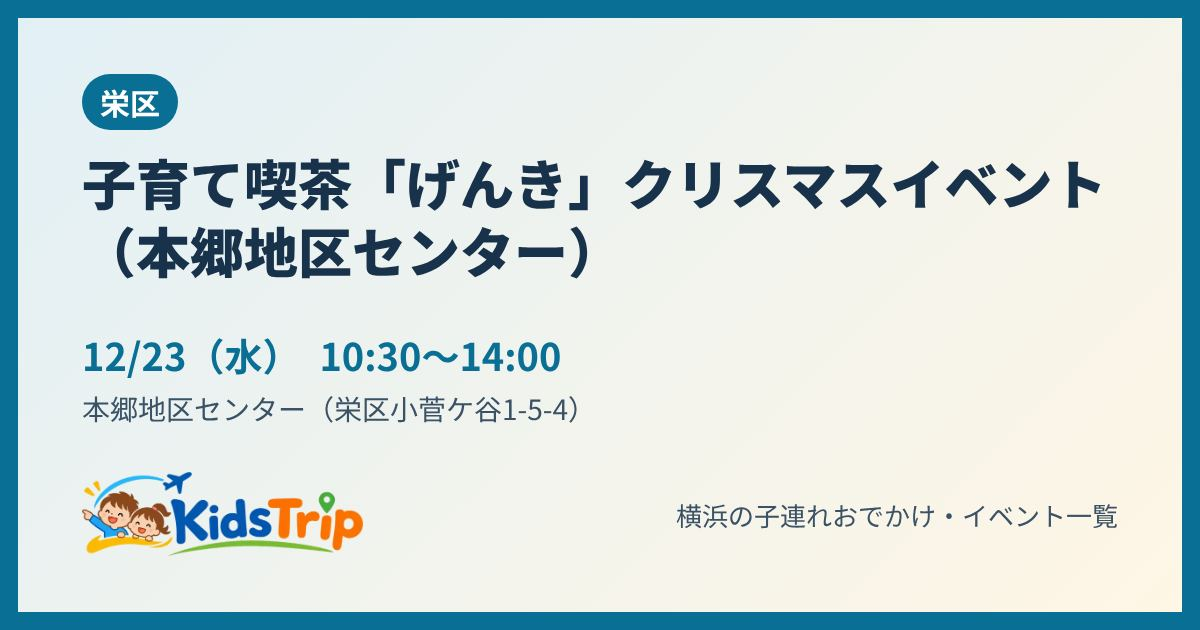
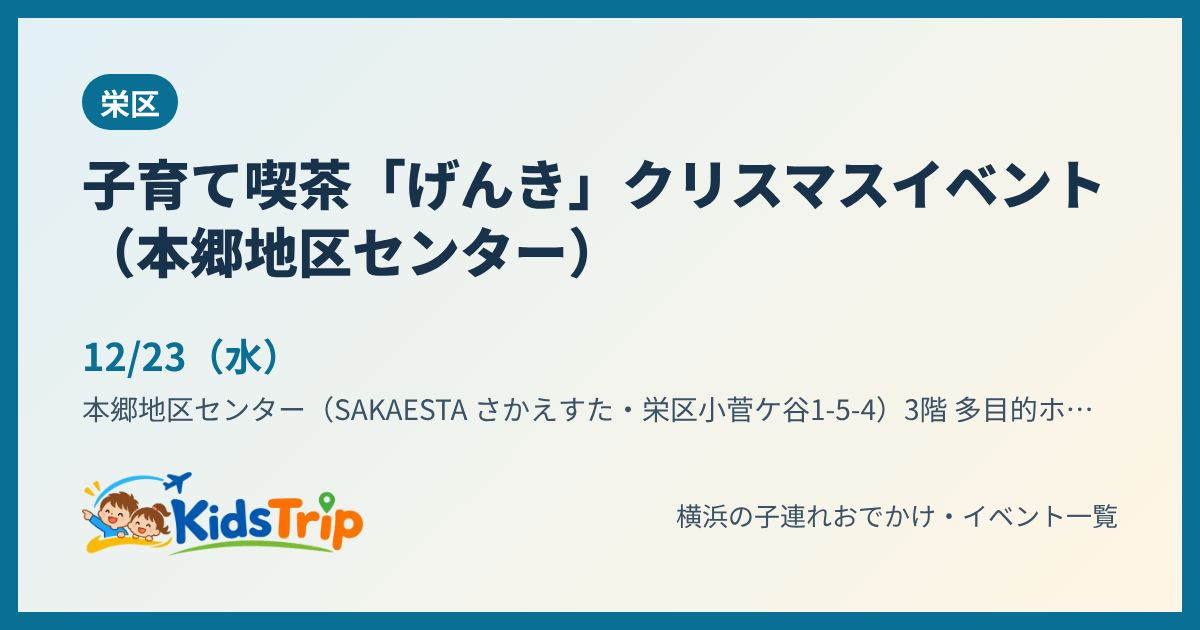
栄区：上郷・本郷の親子向け講座3件を詳細ページで確認（料金・対象・申込）
Claude-Session: https://claude.ai/code/session_014AtJ2fHfJAqHs7WQwJHXLv

Changed region(s): [[0.2775, 0.6333, 0.8942, 0.6937], [0.2467, 0.5429, 0.4933, 0.6032]]

diff --git a/index.html b/index.html
@@ -2267,9 +2267,9 @@ EVENTS.push({"t": "上郷地区センターのプレイルーム（栄区）", "
 EVENTS.push({"t": "親子であそぼう！（豊田地区センター）", "days": ["11/20"], "time": "10:00〜11:00", "ward": "栄区", "venue": "豊田地区センター（栄区飯島町1368-1）", "price": "paid", "priceText": "1組100円", "place": "屋内", "rain": "ok", "rainText": "屋内なので雨でもOK", "resv": true, "resvText": "要予約（先着14組。残りわずかでWEB受付は終了、電話 045-895-1390 で問い合わせ）", "age": [1, 3], "ageText": "1歳以上の未就園児と保護者", "kind": "limited", "start": 600, "sum": "栄区の子育て支援者と一緒に、広い室内で遊ぶ会。11月は「米粉ねんどあそび」。", "tip": "飲み物を持っていく。汚れてもいい服で。", "url": "https://www.sakaekunosisetu.com/toyoda/smartphone/eventdetail.cgi?1706511249", "src": "豊田地区センター公式（講座の詳細ページ）", "asof": "2026年11月16日"});
 EVENTS.push({"t": "こどもお菓子教室（豊田地区センター）", "days": ["12/19"], "time": "10:00〜12:30", "ward": "栄区", "venue": "豊田地区センター（栄区飯島町1368-1）", "price": "paid", "priceText": "1,200円（材料費込み）", "place": "屋内", "rain": "ok", "rainText": "屋内なので雨でもOK", "resv": true, "resvText": "要予約（先着12人。11/19 9時から電話 045-895-1390・来館・WEBで受付）", "age": [6, 12], "ageText": "小学生", "kind": "limited", "start": 600, "sum": "クリスマスのお菓子（チョコレートのケーキ）を作る教室。持ち帰りの箱は用意してもらえる。", "tip": "持ち物：うわばき・エプロン・三角巾・ふきん・台ふきん・手拭き。12/12以降のキャンセルは参加費がかかる（12/11までに連絡）。", "url": "https://www.sakaekunosisetu.com/toyoda/smartphone/eventdetail.cgi?1717639084", "src": "豊田地区センター公式（講座の詳細ページ）", "asof": "2026年11月16日"});
 EVENTS.push({"t": "こども書道教室（豊田地区センター）", "days": ["12/26"], "time": "①13:00〜14:00（小3・4年）②14:00〜15:00（小5〜中学生）", "ward": "栄区", "venue": "豊田地区センター（栄区飯島町1368-1）", "price": "paid", "priceText": "300円", "place": "屋内", "rain": "ok", "rainText": "屋内なので雨でもOK", "resv": true, "resvText": "要予約（定員10人。11/19から電話 045-895-1390・来館・WEBで受付）", "age": [8, 15], "ageText": "小学3年生〜中学生（学年で時間が分かれる）", "kind": "limited", "start": 780, "sum": "正しい筆の持ち方や姿勢を教わり、広い部屋で書く冬休みのお習字。学校の宿題や書初めの練習にも。", "tip": "持ち物：うわばき・習字道具一式・（あれば）お手本・新聞紙・練習用と本番用の紙（多めに）・ぞうきん・書き損じを持ち帰る袋。床に座って書くので汚れてもいい服で。兄弟で参加するときは相談を。", "url": "https://www.sakaekunosisetu.com/toyoda/smartphone/eventdetail.cgi?1698907927", "src": "豊田地区センター公式（講座の詳細ページ）", "asof": "2026年11月16日"});
-EVENTS.push({"t": "年越しそばを親子で打とう（上郷地区センター）", "days": ["12/13"], "time": "10:00〜13:30", "ward": "栄区", "venue": "上郷地区センター（栄区上郷町1173-5）", "price": "unknown", "priceText": "公式ページで未確認（くわしくは電話で）", "place": "屋内", "rain": "ok", "rainText": "屋内なので雨でもOK", "resv": false, "resvText": "公式ページで未確認（くわしくは電話で） 045-892-8000", "age": [6, 12], "ageText": "親子（対象年齢は未確認）", "kind": "limited", "start": 600, "sum": "親子で年越しそばを打つ講座。", "tip": "対象・料金・申し込みは一覧に載っておらず未確認。行く前に電話（045-892-8000）で確かめて。", "url": "https://www.sakaekunosisetu.com/kamigo/event.cgi", "src": "上郷地区センター公式（講座・イベント一覧）", "asof": "2026年11月16日"});
-EVENTS.push({"t": "キグちゃんの「親子であそぼ！」（本郷地区センター）", "days": ["12/14"], "time": "10:30〜11:30", "ward": "栄区", "venue": "本郷地区センター（栄区小菅ケ谷1-5-4）", "price": "unknown", "priceText": "公式ページで未確認（くわしくは電話で）", "place": "屋内", "rain": "ok", "rainText": "屋内なので雨でもOK", "resv": false, "resvText": "公式ページで未確認（くわしくは電話で） 045-892-5310", "age": [2, 3], "ageText": "2歳以上の未就園児と保護者", "kind": "limited", "start": 630, "sum": "遊びから子どもの育ちを学ぶ、親子の遊びの会。", "tip": "対象・料金・申し込みは一覧に載っておらず未確認。行く前に電話（045-892-5310）で確かめて。", "url": "https://www.sakaekunosisetu.com/hongo/smartphone/event.cgi", "src": "本郷地区センター公式（講座・イベント一覧）", "asof": "2026年11月16日"});
-EVENTS.push({"t": "子育て喫茶「げんき」クリスマスイベント（本郷地区センター）", "days": ["12/23"], "time": "10:30〜14:00", "ward": "栄区", "venue": "本郷地区センター（栄区小菅ケ谷1-5-4）", "price": "unknown", "priceText": "公式ページで未確認（くわしくは電話で）", "place": "屋内", "rain": "ok", "rainText": "屋内なので雨でもOK", "resv": false, "resvText": "公式ページで未確認（くわしくは電話で） 045-892-5310", "age": [0, 6], "ageText": "子育て中の親子（対象は未確認）", "kind": "limited", "start": 630, "sum": "子育て喫茶「げんき」のクリスマスイベント。", "tip": "対象・料金・申し込みは一覧に載っておらず未確認。行く前に電話（045-892-5310）で確かめて。", "url": "https://www.sakaekunosisetu.com/hongo/smartphone/event.cgi", "src": "本郷地区センター公式（講座・イベント一覧）", "asof": "2026年11月16日"});
+EVENTS.push({"t": "年越しそばを親子で打とう（上郷地区センター）", "days": ["12/13"], "time": "10:00〜13:30", "ward": "栄区", "venue": "上郷地区センター（栄区上郷町1173-5）", "price": "paid", "priceText": "1組1,500円", "place": "屋内", "rain": "ok", "rainText": "屋内なので雨でもOK", "resv": true, "resvText": "要予約（先着7組。11/17 10時から来館・電話 045-892-8000）", "age": [5, 12], "ageText": "5歳以上の子と保護者", "kind": "limited", "start": 600, "sum": "親子で1つの鉢を使うそば打ち体験。打ちたてのそばをその場で食べる。", "tip": "持ち物：子ども用の上履き・マスク・エプロン・三角巾・台ふきん2枚・ふきん2枚・飲み物・筆記用具。12/7以降のキャンセルは参加費がかかる（12/6までに連絡）。", "url": "https://www.sakaekunosisetu.com/kamigo/event.cgi", "src": "上郷地区センター公式（講座の詳細ページ・チラシ）", "asof": "2026年11月16日"});
+EVENTS.push({"t": "キグちゃんの「親子であそぼ！」（本郷地区センター）", "days": ["12/14"], "time": "10:30〜11:30", "ward": "栄区", "venue": "本郷地区センター（SAKAESTA さかえすた・栄区小菅ケ谷1-5-4）3階 多目的ホール", "price": "free", "priceText": "無料", "place": "屋内", "rain": "ok", "rainText": "屋内なので雨でもOK", "resv": true, "resvText": "要予約（先着15組。11/13 10時から電話 045-392-5157 か受付で）", "age": [2, 3], "ageText": "2歳〜未就園児と保護者", "kind": "limited", "start": 630, "sum": "地域の子育て支援者「キグちゃん」の遊びの講座。パラバルーンなどで体を大きく動かして遊び、最後に絵本の読み聞かせ。月齢に合った遊び方や絵本の選び方も教わる。", "tip": "持ち物：飲み物・汗ふきタオル（必要ならバスタオル）。体調の悪い日は参加できない。キャンセルは必ず連絡。JR本郷台駅から歩いて約3分。", "url": "https://www.sakaekunosisetu.com/hongo/smartphone/event.cgi", "src": "本郷地区センター（SAKAESTA）公式（講座の詳細ページ・チラシ）", "asof": "2026年11月16日"});
+EVENTS.push({"t": "子育て喫茶「げんき」クリスマスイベント（本郷地区センター）", "days": ["12/23"], "time": "10:30〜14:00（イベントは10:45〜11:30ごろ）", "ward": "栄区", "venue": "本郷地区センター（SAKAESTA さかえすた・栄区小菅ケ谷1-5-4）3階 多目的ホール", "price": "paid", "priceText": "1家族200円（保険・お茶代）＋カレー代（大人150円・子ども50円）", "place": "屋内", "rain": "ok", "rainText": "屋内なので雨でもOK", "resv": true, "resvText": "要予約（0〜3歳の親子25組。11/12 10時から電話 045-392-5157 か受付で。カレーだけの申し込みは不可）", "age": [0, 3], "ageText": "0〜3歳と保護者", "kind": "limited", "start": 630, "sum": "子育て喫茶「げんき」のクリスマス。親子で楽しむJAZZコンサートがあり、サンタさんも来る。カレーも食べられる。", "tip": "体調がすぐれない・熱がある日は参加できない。キャンセルは前もって連絡。JR本郷台駅から歩いて約3分。", "url": "https://www.sakaekunosisetu.com/hongo/smartphone/event.cgi", "src": "本郷地区センター（SAKAESTA）公式（講座の詳細ページ・チラシ）", "asof": "2026年11月16日"});
 // ---- 区ごとの無料の室内遊び場（地域子育て支援拠点・地区センターのプレイルーム）。開館日・時間は施設ごとに違うので日付には結びつけない（only:[]） ----
 EVENTS.push({"t": "ラフール（青葉区の地域子育て支援拠点）", "days": [], "time": "開館日・時間は公式ページで確認", "ward": "青葉区", "venue": "ラフール（青葉台1-4 青葉消防署青葉台消防出張所複合施設6階）", "price": "free", "priceText": "無料", "place": "屋内", "rain": "ok", "rainText": "屋内なので雨でもOK", "resv": true, "resvText": "利用登録が必要（無料）", "age": [0, 6], "ageText": "未就学児と保護者", "kind": "ongoing", "start": 600, "freeplay": true, "only": [], "period": "ふだん開いている（休館日は要確認）", "sum": "未就学児と保護者が無料で遊べる、青葉区の子育て支援の拠点。遊びのスペースのほか、子育ての相談や地域の子育て情報ももらえる。東急田園都市線「青葉台」徒歩3分。", "tip": "はじめて使うときは利用登録が必要。開館日や時間、混み具合は公式ページで確かめてから。", "url": "https://lafull.net/", "src": "横浜市（地域子育て支援拠点の一覧・2026年11月）", "asof": "2026年11月13日"});
 EVENTS.push({"t": "ラフールサテライト（青葉区の地域子育て支援拠点）", "days": [], "time": "開館日・時間は公式ページで確認", "ward": "青葉区", "venue": "ラフールサテライト（市ケ尾町1152-25 1階）", "price": "free", "priceText": "無料", "place": "屋内", "rain": "ok", "rainText": "屋内なので雨でもOK", "resv": true, "resvText": "利用登録が必要（無料）", "age": [0, 6], "ageText": "未就学児と保護者", "kind": "ongoing", "start": 600, "freeplay": true, "only": [], "period": "ふだん開いている（休館日は要確認）", "sum": "未就学児と保護者が無料で遊べる、青葉区の子育て支援の拠点。遊びのスペースのほか、子育ての相談や地域の子育て情報ももらえる。東急田園都市線「市が尾」徒歩7分。", "tip": "はじめて使うときは利用登録が必要。開館日や時間、混み具合は公式ページで確かめてから。", "url": "https://lafull.net/about-satellite/", "src": "横浜市（地域子育て支援拠点の一覧・2026年11月）", "asof": "2026年11月13日"});

diff --git a/event/5poo2x/index.html b/event/5poo2x/index.html
@@ -4,12 +4,12 @@
 <meta charset="utf-8">
 <meta name="viewport" content="width=device-width, initial-scale=1">
 <title>子育て喫茶「げんき」クリスマスイベント（本郷地区センター）（栄区）｜横浜の子連れイベント｜KidsTrip</title>
-<meta name="description" content="12月23日(水)　本郷地区センター（栄区小菅ケ谷1-5-4）。子育て喫茶「げんき」のクリスマスイベント。">
+<meta name="description" content="12月23日(水)　本郷地区センター（SAKAESTA さかえすた・栄区小菅ケ谷1-5-4）3階 多目的ホール。子育て喫茶「げんき」のクリスマス。親子で楽しむJAZZコンサートがあり、サンタさんも来る。カレーも食べられる。">
 <link rel="canonical" href="https://kidstrip.jp/event/5poo2x/">
 <meta property="og:type" content="article">
 <meta property="og:site_name" content="KidsTrip">
 <meta property="og:title" content="子育て喫茶「げんき」クリスマスイベント（本郷地区センター）（栄区）｜横浜の子連れイベント｜KidsTrip">
-<meta property="og:description" content="12月23日(水)　本郷地区センター（栄区小菅ケ谷1-5-4）。子育て喫茶「げんき」のクリスマスイベント。">
+<meta property="og:description" content="12月23日(水)　本郷地区センター（SAKAESTA さかえすた・栄区小菅ケ谷1-5-4）3階 多目的ホール。子育て喫茶「げんき」のクリスマス。親子で楽しむJAZZコンサートがあり、サンタさんも来る。カレーも食べられる。">
 <meta property="og:url" content="https://kidstrip.jp/event/5poo2x/">
 <meta property="og:image" content="https://kidstrip.jp/og/5poo2x.jpg">
 <meta property="og:image:width" content="1200">
@@ -19,7 +19,7 @@
 <link rel="icon" href="../../img/favicon.png">
 <link rel="apple-touch-icon" href="../../img/apple-touch-icon.png">
 <script type="application/ld+json">{"@context": "https://schema.org", "@type": "BreadcrumbList", "itemListElement": [{"@type": "ListItem", "position": 1, "name": "トップ", "item": "https://kidstrip.jp/"}, {"@type": "ListItem", "position": 2, "name": "イベント", "item": "https://kidstrip.jp/"}, {"@type": "ListItem", "position": 3, "name": "子育て喫茶「げんき」クリスマスイベント（本郷地区センター）"}]}</script>
-<script type="application/ld+json">{"@context": "https://schema.org", "@type": "Event", "name": "子育て喫茶「げんき」クリスマスイベント（本郷地区センター）", "startDate": "2026-12-23T10:30:00+09:00", "endDate": "2026-12-23", "eventStatus": "https://schema.org/EventScheduled", "eventAttendanceMode": "https://schema.org/OfflineEventAttendanceMode", "location": {"@type": "Place", "name": "本郷地区センター（栄区小菅ケ谷1-5-4）", "address": {"@type": "PostalAddress", "addressLocality": "横浜市栄区", "addressRegion": "神奈川県", "addressCountry": "JP"}}, "description": "子育て喫茶「げんき」のクリスマスイベント。", "image": ["https://kidstrip.jp/og/5poo2x.jpg"], "url": "https://kidstrip.jp/event/5poo2x/", "isAccessibleForFree": false, "inLanguage": "ja"}</script>
+<script type="application/ld+json">{"@context": "https://schema.org", "@type": "Event", "name": "子育て喫茶「げんき」クリスマスイベント（本郷地区センター）", "startDate": "2026-12-23T10:30:00+09:00", "endDate": "2026-12-23", "eventStatus": "https://schema.org/EventScheduled", "eventAttendanceMode": "https://schema.org/OfflineEventAttendanceMode", "location": {"@type": "Place", "name": "本郷地区センター（SAKAESTA さかえすた・栄区小菅ケ谷1-5-4）3階 多目的ホール", "address": {"@type": "PostalAddress", "addressLocality": "横浜市栄区", "addressRegion": "神奈川県", "addressCountry": "JP"}}, "description": "子育て喫茶「げんき」のクリスマス。親子で楽しむJAZZコンサートがあり、サンタさんも来る。カレーも食べられる。", "image": ["https://kidstrip.jp/og/5poo2x.jpg"], "url": "https://kidstrip.jp/event/5poo2x/", "isAccessibleForFree": false, "inLanguage": "ja"}</script>
 <style>
 :root{--paper:#f8fafc;--card:#fff;--ink:#18222e;--muted:#5b6875;--line:#dde3e9;--accent:#0a6f95;--accent-soft:#e2f0f6;--ok:#2e7d4f;--bad:#b3372b}
 *{box-sizing:border-box}body{margin:0;background:var(--paper);color:var(--ink);font-family:"Zen Kaku Gothic New","Hiragino Kaku Gothic ProN","Yu Gothic","Meiryo",sans-serif;line-height:1.7}
@@ -46,23 +46,23 @@ footer{margin:28px 0 8px;font-size:12px;color:var(--muted)}
 <p class="crumb"><a href="/">トップ</a> ＞ <a href="/">イベント</a> ＞ 子育て喫茶「げんき」クリスマスイベント（本郷地区センター）</p>
 <article class="card">
 <h1>子育て喫茶「げんき」クリスマスイベント（本郷地区センター）</h1>
-<ul class="chips"><li>料金要確認</li><li>子育て中の親子（対象は未確認）</li><li>屋内</li><li>雨でもOK</li></ul>
+<ul class="chips"><li>有料</li><li>0〜3歳と保護者</li><li>屋内</li><li>雨でもOK</li></ul>
 <table class="info">
 <tr><th>日にち</th><td>12月23日(水)</td></tr>
-<tr><th>時間</th><td>10:30〜14:00</td></tr>
-<tr><th>場所</th><td>栄区・本郷地区センター（栄区小菅ケ谷1-5-4）</td></tr>
-<tr><th>料金</th><td>公式ページで未確認（くわしくは電話で）</td></tr>
-<tr><th>対象</th><td>子育て中の親子（対象は未確認）</td></tr>
-<tr><th>予約</th><td>公式ページで未確認（くわしくは電話で） 045-892-5310</td></tr>
+<tr><th>時間</th><td>10:30〜14:00（イベントは10:45〜11:30ごろ）</td></tr>
+<tr><th>場所</th><td>栄区・本郷地区センター（SAKAESTA さかえすた・栄区小菅ケ谷1-5-4）3階 多目的ホール</td></tr>
+<tr><th>料金</th><td>1家族200円（保険・お茶代）＋カレー代（大人150円・子ども50円）</td></tr>
+<tr><th>対象</th><td>0〜3歳と保護者</td></tr>
+<tr><th>予約</th><td>要予約（0〜3歳の親子25組。11/12 10時から電話 045-392-5157 か受付で。カレーだけの申し込みは不可）</td></tr>
 <tr><th>雨の日</th><td>雨でもOK（屋内なので雨でもOK）</td></tr>
 </table>
-<p class="sum">子育て喫茶「げんき」のクリスマスイベント。</p>
-<p class="tip">💡 対象・料金・申し込みは一覧に載っておらず未確認。行く前に電話（045-892-5310）で確かめて。</p>
-<p class="small">情報の時点：2026年11月16日　出典：本郷地区センター公式（講座・イベント一覧）</p>
+<p class="sum">子育て喫茶「げんき」のクリスマス。親子で楽しむJAZZコンサートがあり、サンタさんも来る。カレーも食べられる。</p>
+<p class="tip">💡 体調がすぐれない・熱がある日は参加できない。キャンセルは前もって連絡。JR本郷台駅から歩いて約3分。</p>
+<p class="small">情報の時点：2026年11月16日　出典：本郷地区センター（SAKAESTA）公式（講座の詳細ページ・チラシ）</p>
 <div class="btns"><a class="btn main" data-act="official" href="https://www.sakaekunosisetu.com/hongo/smartphone/event.cgi" target="_blank" rel="noopener">公式ページで確認</a>
 <a class="btn" href="/?e=5poo2x">一覧で見る（行き方・近くのごはん）</a>
 <button type="button" class="btn" data-share="1">🔗 リンクを送る・コピー</button>
-<a class="btn line" href="https://line.me/R/share?text=%E3%80%90%E5%AD%90%E8%82%B2%E3%81%A6%E5%96%AB%E8%8C%B6%E3%80%8C%E3%81%92%E3%82%93%E3%81%8D%E3%80%8D%E3%82%AF%E3%83%AA%E3%82%B9%E3%83%9E%E3%82%B9%E3%82%A4%E3%83%99%E3%83%B3%E3%83%88%EF%BC%88%E6%9C%AC%E9%83%B7%E5%9C%B0%E5%8C%BA%E3%82%BB%E3%83%B3%E3%82%BF%E3%83%BC%EF%BC%89%E3%80%91%0A12%E6%9C%8823%E6%97%A5%28%E6%B0%B4%29%E3%80%8010%3A30%E3%80%9C14%3A00%0A%E5%A0%B4%E6%89%80%EF%BC%9A%E6%A0%84%E5%8C%BA%E3%83%BB%E6%9C%AC%E9%83%B7%E5%9C%B0%E5%8C%BA%E3%82%BB%E3%83%B3%E3%82%BF%E3%83%BC%EF%BC%88%E6%A0%84%E5%8C%BA%E5%B0%8F%E8%8F%85%E3%82%B1%E8%B0%B71-5-4%EF%BC%89%0Ahttps%3A//kidstrip.jp/event/5poo2x/" target="_blank" rel="noopener">LINEで送る</a></div>
+<a class="btn line" href="https://line.me/R/share?text=%E3%80%90%E5%AD%90%E8%82%B2%E3%81%A6%E5%96%AB%E8%8C%B6%E3%80%8C%E3%81%92%E3%82%93%E3%81%8D%E3%80%8D%E3%82%AF%E3%83%AA%E3%82%B9%E3%83%9E%E3%82%B9%E3%82%A4%E3%83%99%E3%83%B3%E3%83%88%EF%BC%88%E6%9C%AC%E9%83%B7%E5%9C%B0%E5%8C%BA%E3%82%BB%E3%83%B3%E3%82%BF%E3%83%BC%EF%BC%89%E3%80%91%0A12%E6%9C%8823%E6%97%A5%28%E6%B0%B4%29%E3%80%8010%3A30%E3%80%9C14%3A00%EF%BC%88%E3%82%A4%E3%83%99%E3%83%B3%E3%83%88%E3%81%AF10%3A45%E3%80%9C11%3A30%E3%81%94%E3%82%8D%EF%BC%89%0A%E5%A0%B4%E6%89%80%EF%BC%9A%E6%A0%84%E5%8C%BA%E3%83%BB%E6%9C%AC%E9%83%B7%E5%9C%B0%E5%8C%BA%E3%82%BB%E3%83%B3%E3%82%BF%E3%83%BC%EF%BC%88SAKAESTA%20%E3%81%95%E3%81%8B%E3%81%88%E3%81%99%E3%81%9F%E3%83%BB%E6%A0%84%E5%8C%BA%E5%B0%8F%E8%8F%85%E3%82%B1%E8%B0%B71-5-4%EF%BC%893%E9%9A%8E%20%E5%A4%9A%E7%9B%AE%E7%9A%84%E3%83%9B%E3%83%BC%E3%83%AB%0Ahttps%3A//kidstrip.jp/event/5poo2x/" target="_blank" rel="noopener">LINEで送る</a></div>
 </article>
 
 

diff --git a/event/3wvgou/index.html b/event/3wvgou/index.html
@@ -4,12 +4,12 @@
 <meta charset="utf-8">
 <meta name="viewport" content="width=device-width, initial-scale=1">
 <title>キグちゃんの「親子であそぼ！」（本郷地区センター）（栄区）｜横浜の子連れイベント｜KidsTrip</title>
-<meta name="description" content="12月14日(月)　本郷地区センター（栄区小菅ケ谷1-5-4）。遊びから子どもの育ちを学ぶ、親子の遊びの会。">
+<meta name="description" content="12月14日(月)　本郷地区センター（SAKAESTA さかえすた・栄区小菅ケ谷1-5-4）3階 多目的ホール。地域の子育て支援者「キグちゃん」の遊びの講座。パラバルーンなどで体を大きく動かして遊び、最後に絵本の読み聞かせ。月齢に合った遊び">
 <link rel="canonical" href="https://kidstrip.jp/event/3wvgou/">
 <meta property="og:type" content="article">
 <meta property="og:site_name" content="KidsTrip">
 <meta property="og:title" content="キグちゃんの「親子であそぼ！」（本郷地区センター）（栄区）｜横浜の子連れイベント｜KidsTrip">
-<meta property="og:description" content="12月14日(月)　本郷地区センター（栄区小菅ケ谷1-5-4）。遊びから子どもの育ちを学ぶ、親子の遊びの会。">
+<meta property="og:description" content="12月14日(月)　本郷地区センター（SAKAESTA さかえすた・栄区小菅ケ谷1-5-4）3階 多目的ホール。地域の子育て支援者「キグちゃん」の遊びの講座。パラバルーンなどで体を大きく動かして遊び、最後に絵本の読み聞かせ。月齢に合った遊び">
 <meta property="og:url" content="https://kidstrip.jp/event/3wvgou/">
 <meta property="og:image" content="https://kidstrip.jp/og/3wvgou.jpg">
 <meta property="og:image:width" content="1200">
@@ -19,7 +19,7 @@
 <link rel="icon" href="../../img/favicon.png">
 <link rel="apple-touch-icon" href="../../img/apple-touch-icon.png">
 <script type="application/ld+json">{"@context": "https://schema.org", "@type": "BreadcrumbList", "itemListElement": [{"@type": "ListItem", "position": 1, "name": "トップ", "item": "https://kidstrip.jp/"}, {"@type": "ListItem", "position": 2, "name": "イベント", "item": "https://kidstrip.jp/"}, {"@type": "ListItem", "position": 3, "name": "キグちゃんの「親子であそぼ！」（本郷地区センター）"}]}</script>
-<script type="application/ld+json">{"@context": "https://schema.org", "@type": "Event", "name": "キグちゃんの「親子であそぼ！」（本郷地区センター）", "startDate": "2026-12-14T10:30:00+09:00", "endDate": "2026-12-14", "eventStatus": "https://schema.org/EventScheduled", "eventAttendanceMode": "https://schema.org/OfflineEventAttendanceMode", "location": {"@type": "Place", "name": "本郷地区センター（栄区小菅ケ谷1-5-4）", "address": {"@type": "PostalAddress", "addressLocality": "横浜市栄区", "addressRegion": "神奈川県", "addressCountry": "JP"}}, "description": "遊びから子どもの育ちを学ぶ、親子の遊びの会。", "image": ["https://kidstrip.jp/og/3wvgou.jpg"], "url": "https://kidstrip.jp/event/3wvgou/", "isAccessibleForFree": false, "inLanguage": "ja"}</script>
+<script type="application/ld+json">{"@context": "https://schema.org", "@type": "Event", "name": "キグちゃんの「親子であそぼ！」（本郷地区センター）", "startDate": "2026-12-14T10:30:00+09:00", "endDate": "2026-12-14", "eventStatus": "https://schema.org/EventScheduled", "eventAttendanceMode": "https://schema.org/OfflineEventAttendanceMode", "location": {"@type": "Place", "name": "本郷地区センター（SAKAESTA さかえすた・栄区小菅ケ谷1-5-4）3階 多目的ホール", "address": {"@type": "PostalAddress", "addressLocality": "横浜市栄区", "addressRegion": "神奈川県", "addressCountry": "JP"}}, "description": "地域の子育て支援者「キグちゃん」の遊びの講座。パラバルーンなどで体を大きく動かして遊び、最後に絵本の読み聞かせ。月齢に合った遊び方や絵本の選び方も教わる。", "image": ["https://kidstrip.jp/og/3wvgou.jpg"], "url": "https://kidstrip.jp/event/3wvgou/", "isAccessibleForFree": true, "inLanguage": "ja"}</script>
 <style>
 :root{--paper:#f8fafc;--card:#fff;--ink:#18222e;--muted:#5b6875;--line:#dde3e9;--accent:#0a6f95;--accent-soft:#e2f0f6;--ok:#2e7d4f;--bad:#b3372b}
 *{box-sizing:border-box}body{margin:0;background:var(--paper);color:var(--ink);font-family:"Zen Kaku Gothic New","Hiragino Kaku Gothic ProN","Yu Gothic","Meiryo",sans-serif;line-height:1.7}
@@ -46,23 +46,23 @@ footer{margin:28px 0 8px;font-size:12px;color:var(--muted)}
 <p class="crumb"><a href="/">トップ</a> ＞ <a href="/">イベント</a> ＞ キグちゃんの「親子であそぼ！」（本郷地区センター）</p>
 <article class="card">
 <h1>キグちゃんの「親子であそぼ！」（本郷地区センター）</h1>
-<ul class="chips"><li>料金要確認</li><li>2歳以上の未就園児と保護者</li><li>屋内</li><li>雨でもOK</li></ul>
+<ul class="chips"><li>無料</li><li>2歳〜未就園児と保護者</li><li>屋内</li><li>雨でもOK</li></ul>
 <table class="info">
 <tr><th>日にち</th><td>12月14日(月)</td></tr>
 <tr><th>時間</th><td>10:30〜11:30</td></tr>
-<tr><th>場所</th><td>栄区・本郷地区センター（栄区小菅ケ谷1-5-4）</td></tr>
-<tr><th>料金</th><td>公式ページで未確認（くわしくは電話で）</td></tr>
-<tr><th>対象</th><td>2歳以上の未就園児と保護者</td></tr>
-<tr><th>予約</th><td>公式ページで未確認（くわしくは電話で） 045-892-5310</td></tr>
+<tr><th>場所</th><td>栄区・本郷地区センター（SAKAESTA さかえすた・栄区小菅ケ谷1-5-4）3階 多目的ホール</td></tr>
+<tr><th>料金</th><td>無料</td></tr>
+<tr><th>対象</th><td>2歳〜未就園児と保護者</td></tr>
+<tr><th>予約</th><td>要予約（先着15組。11/13 10時から電話 045-392-5157 か受付で）</td></tr>
 <tr><th>雨の日</th><td>雨でもOK（屋内なので雨でもOK）</td></tr>
 </table>
-<p class="sum">遊びから子どもの育ちを学ぶ、親子の遊びの会。</p>
-<p class="tip">💡 対象・料金・申し込みは一覧に載っておらず未確認。行く前に電話（045-892-5310）で確かめて。</p>
-<p class="small">情報の時点：2026年11月16日　出典：本郷地区センター公式（講座・イベント一覧）</p>
+<p class="sum">地域の子育て支援者「キグちゃん」の遊びの講座。パラバルーンなどで体を大きく動かして遊び、最後に絵本の読み聞かせ。月齢に合った遊び方や絵本の選び方も教わる。</p>
+<p class="tip">💡 持ち物：飲み物・汗ふきタオル（必要ならバスタオル）。体調の悪い日は参加できない。キャンセルは必ず連絡。JR本郷台駅から歩いて約3分。</p>
+<p class="small">情報の時点：2026年11月16日　出典：本郷地区センター（SAKAESTA）公式（講座の詳細ページ・チラシ）</p>
 <div class="btns"><a class="btn main" data-act="official" href="https://www.sakaekunosisetu.com/hongo/smartphone/event.cgi" target="_blank" rel="noopener">公式ページで確認</a>
 <a class="btn" href="/?e=3wvgou">一覧で見る（行き方・近くのごはん）</a>
 <button type="button" class="btn" data-share="1">🔗 リンクを送る・コピー</button>
-<a class="btn line" href="https://line.me/R/share?text=%E3%80%90%E3%82%AD%E3%82%B0%E3%81%A1%E3%82%83%E3%82%93%E3%81%AE%E3%80%8C%E8%A6%AA%E5%AD%90%E3%81%A7%E3%81%82%E3%81%9D%E3%81%BC%EF%BC%81%E3%80%8D%EF%BC%88%E6%9C%AC%E9%83%B7%E5%9C%B0%E5%8C%BA%E3%82%BB%E3%83%B3%E3%82%BF%E3%83%BC%EF%BC%89%E3%80%91%0A12%E6%9C%8814%E6%97%A5%28%E6%9C%88%29%E3%80%8010%3A30%E3%80%9C11%3A30%0A%E5%A0%B4%E6%89%80%EF%BC%9A%E6%A0%84%E5%8C%BA%E3%83%BB%E6%9C%AC%E9%83%B7%E5%9C%B0%E5%8C%BA%E3%82%BB%E3%83%B3%E3%82%BF%E3%83%BC%EF%BC%88%E6%A0%84%E5%8C%BA%E5%B0%8F%E8%8F%85%E3%82%B1%E8%B0%B71-5-4%EF%BC%89%0Ahttps%3A//kidstrip.jp/event/3wvgou/" target="_blank" rel="noopener">LINEで送る</a></div>
+<a class="btn line" href="https://line.me/R/share?text=%E3%80%90%E3%82%AD%E3%82%B0%E3%81%A1%E3%82%83%E3%82%93%E3%81%AE%E3%80%8C%E8%A6%AA%E5%AD%90%E3%81%A7%E3%81%82%E3%81%9D%E3%81%BC%EF%BC%81%E3%80%8D%EF%BC%88%E6%9C%AC%E9%83%B7%E5%9C%B0%E5%8C%BA%E3%82%BB%E3%83%B3%E3%82%BF%E3%83%BC%EF%BC%89%E3%80%91%0A12%E6%9C%8814%E6%97%A5%28%E6%9C%88%29%E3%80%8010%3A30%E3%80%9C11%3A30%0A%E5%A0%B4%E6%89%80%EF%BC%9A%E6%A0%84%E5%8C%BA%E3%83%BB%E6%9C%AC%E9%83%B7%E5%9C%B0%E5%8C%BA%E3%82%BB%E3%83%B3%E3%82%BF%E3%83%BC%EF%BC%88SAKAESTA%20%E3%81%95%E3%81%8B%E3%81%88%E3%81%99%E3%81%9F%E3%83%BB%E6%A0%84%E5%8C%BA%E5%B0%8F%E8%8F%85%E3%82%B1%E8%B0%B71-5-4%EF%BC%893%E9%9A%8E%20%E5%A4%9A%E7%9B%AE%E7%9A%84%E3%83%9B%E3%83%BC%E3%83%AB%0Ahttps%3A//kidstrip.jp/event/3wvgou/" target="_blank" rel="noopener">LINEで送る</a></div>
 </article>
 
 

diff --git a/event/12n8468/index.html b/event/12n8468/index.html
@@ -4,12 +4,12 @@
 <meta charset="utf-8">
 <meta name="viewport" content="width=device-width, initial-scale=1">
 <title>年越しそばを親子で打とう（上郷地区センター）（栄区）｜横浜の子連れイベント｜KidsTrip</title>
-<meta name="description" content="12月13日(日)　上郷地区センター（栄区上郷町1173-5）。親子で年越しそばを打つ講座。">
+<meta name="description" content="12月13日(日)　上郷地区センター（栄区上郷町1173-5）。親子で1つの鉢を使うそば打ち体験。打ちたてのそばをその場で食べる。">
 <link rel="canonical" href="https://kidstrip.jp/event/12n8468/">
 <meta property="og:type" content="article">
 <meta property="og:site_name" content="KidsTrip">
 <meta property="og:title" content="年越しそばを親子で打とう（上郷地区センター）（栄区）｜横浜の子連れイベント｜KidsTrip">
-<meta property="og:description" content="12月13日(日)　上郷地区センター（栄区上郷町1173-5）。親子で年越しそばを打つ講座。">
+<meta property="og:description" content="12月13日(日)　上郷地区センター（栄区上郷町1173-5）。親子で1つの鉢を使うそば打ち体験。打ちたてのそばをその場で食べる。">
 <meta property="og:url" content="https://kidstrip.jp/event/12n8468/">
 <meta property="og:image" content="https://kidstrip.jp/og/12n8468.jpg">
 <meta property="og:image:width" content="1200">
@@ -19,7 +19,7 @@
 <link rel="icon" href="../../img/favicon.png">
 <link rel="apple-touch-icon" href="../../img/apple-touch-icon.png">
 <script type="application/ld+json">{"@context": "https://schema.org", "@type": "BreadcrumbList", "itemListElement": [{"@type": "ListItem", "position": 1, "name": "トップ", "item": "https://kidstrip.jp/"}, {"@type": "ListItem", "position": 2, "name": "イベント", "item": "https://kidstrip.jp/"}, {"@type": "ListItem", "position": 3, "name": "年越しそばを親子で打とう（上郷地区センター）"}]}</script>
-<script type="application/ld+json">{"@context": "https://schema.org", "@type": "Event", "name": "年越しそばを親子で打とう（上郷地区センター）", "startDate": "2026-12-13T10:00:00+09:00", "endDate": "2026-12-13", "eventStatus": "https://schema.org/EventScheduled", "eventAttendanceMode": "https://schema.org/OfflineEventAttendanceMode", "location": {"@type": "Place", "name": "上郷地区センター（栄区上郷町1173-5）", "address": {"@type": "PostalAddress", "addressLocality": "横浜市栄区", "addressRegion": "神奈川県", "addressCountry": "JP"}}, "description": "親子で年越しそばを打つ講座。", "image": ["https://kidstrip.jp/og/12n8468.jpg"], "url": "https://kidstrip.jp/event/12n8468/", "isAccessibleForFree": false, "inLanguage": "ja"}</script>
+<script type="application/ld+json">{"@context": "https://schema.org", "@type": "Event", "name": "年越しそばを親子で打とう（上郷地区センター）", "startDate": "2026-12-13T10:00:00+09:00", "endDate": "2026-12-13", "eventStatus": "https://schema.org/EventScheduled", "eventAttendanceMode": "https://schema.org/OfflineEventAttendanceMode", "location": {"@type": "Place", "name": "上郷地区センター（栄区上郷町1173-5）", "address": {"@type": "PostalAddress", "addressLocality": "横浜市栄区", "addressRegion": "神奈川県", "addressCountry": "JP"}}, "description": "親子で1つの鉢を使うそば打ち体験。打ちたてのそばをその場で食べる。", "image": ["https://kidstrip.jp/og/12n8468.jpg"], "url": "https://kidstrip.jp/event/12n8468/", "isAccessibleForFree": false, "inLanguage": "ja"}</script>
 <style>
 :root{--paper:#f8fafc;--card:#fff;--ink:#18222e;--muted:#5b6875;--line:#dde3e9;--accent:#0a6f95;--accent-soft:#e2f0f6;--ok:#2e7d4f;--bad:#b3372b}
 *{box-sizing:border-box}body{margin:0;background:var(--paper);color:var(--ink);font-family:"Zen Kaku Gothic New","Hiragino Kaku Gothic ProN","Yu Gothic","Meiryo",sans-serif;line-height:1.7}
@@ -46,19 +46,19 @@ footer{margin:28px 0 8px;font-size:12px;color:var(--muted)}
 <p class="crumb"><a href="/">トップ</a> ＞ <a href="/">イベント</a> ＞ 年越しそばを親子で打とう（上郷地区センター）</p>
 <article class="card">
 <h1>年越しそばを親子で打とう（上郷地区センター）</h1>
-<ul class="chips"><li>料金要確認</li><li>親子（対象年齢は未確認）</li><li>屋内</li><li>雨でもOK</li></ul>
+<ul class="chips"><li>有料</li><li>5歳以上の子と保護者</li><li>屋内</li><li>雨でもOK</li></ul>
 <table class="info">
 <tr><th>日にち</th><td>12月13日(日)</td></tr>
 <tr><th>時間</th><td>10:00〜13:30</td></tr>
 <tr><th>場所</th><td>栄区・上郷地区センター（栄区上郷町1173-5）</td></tr>
-<tr><th>料金</th><td>公式ページで未確認（くわしくは電話で）</td></tr>
-<tr><th>対象</th><td>親子（対象年齢は未確認）</td></tr>
-<tr><th>予約</th><td>公式ページで未確認（くわしくは電話で） 045-892-8000</td></tr>
+<tr><th>料金</th><td>1組1,500円</td></tr>
+<tr><th>対象</th><td>5歳以上の子と保護者</td></tr>
+<tr><th>予約</th><td>要予約（先着7組。11/17 10時から来館・電話 045-892-8000）</td></tr>
 <tr><th>雨の日</th><td>雨でもOK（屋内なので雨でもOK）</td></tr>
 </table>
-<p class="sum">親子で年越しそばを打つ講座。</p>
-<p class="tip">💡 対象・料金・申し込みは一覧に載っておらず未確認。行く前に電話（045-892-8000）で確かめて。</p>
-<p class="small">情報の時点：2026年11月16日　出典：上郷地区センター公式（講座・イベント一覧）</p>
+<p class="sum">親子で1つの鉢を使うそば打ち体験。打ちたてのそばをその場で食べる。</p>
+<p class="tip">💡 持ち物：子ども用の上履き・マスク・エプロン・三角巾・台ふきん2枚・ふきん2枚・飲み物・筆記用具。12/7以降のキャンセルは参加費がかかる（12/6までに連絡）。</p>
+<p class="small">情報の時点：2026年11月16日　出典：上郷地区センター公式（講座の詳細ページ・チラシ）</p>
 <div class="btns"><a class="btn main" data-act="official" href="https://www.sakaekunosisetu.com/kamigo/event.cgi" target="_blank" rel="noopener">公式ページで確認</a>
 <a class="btn" href="/?e=12n8468">一覧で見る（行き方・近くのごはん）</a>
 <button type="button" class="btn" data-share="1">🔗 リンクを送る・コピー</button>
